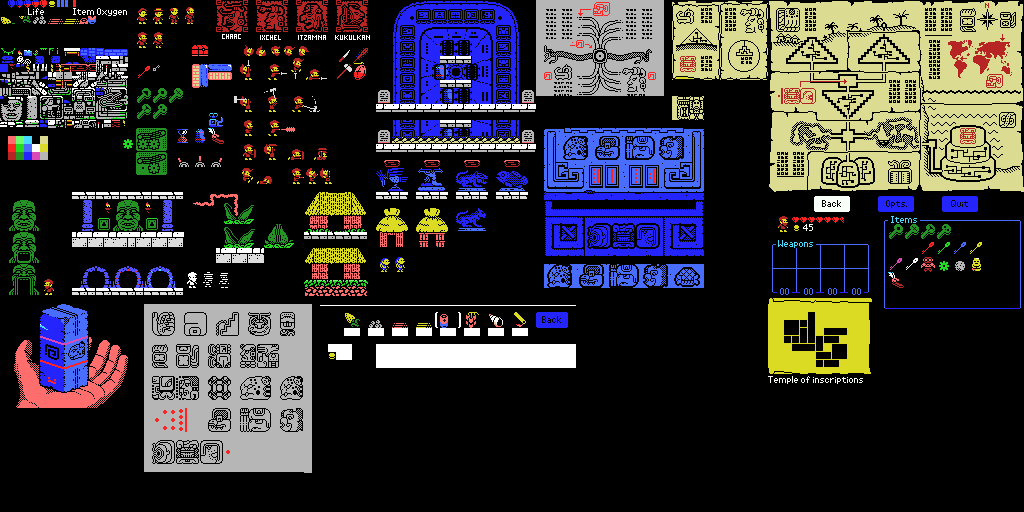
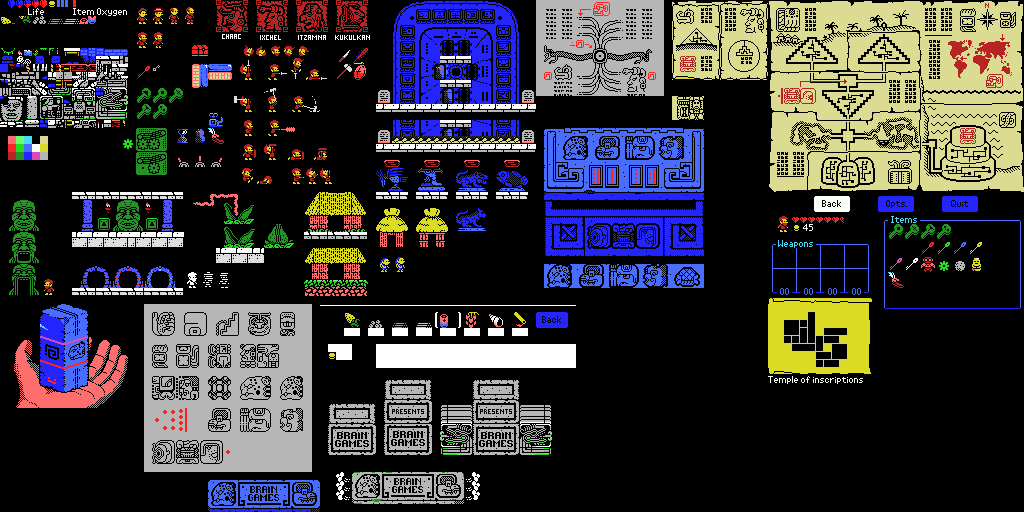
started working on the braingames splash screen

Changed region(s): [[0.1875, 0.7188, 0.5625, 1.0]]

diff --git a/java/src/xspelunker2/GenerateTiles.java b/java/src/xspelunker2/GenerateTiles.java
@@ -35,6 +35,7 @@ public class GenerateTiles {
         extractPowerStoneTiles("data/power-stone-tiles.png", "data/power-stone-1.tmx", "src/autogenerated/power-stone");
         extractTiles("data/tablet-maya-tiles.png", "src/autogenerated/tablet-maya-tiles", 0, 12*8);
         extractTiles("data/shop-tiles.png", "src/autogenerated/shop-tiles", 0, 16*8);
+        extractTiles("data/braingames.png", "src/autogenerated/braingames", 0, 4*8);
         
         Pair<BufferedImage,int[][]> tmp = Map.extractUniqueTiles("data/puzzlebox.png", "data/puzzlebox-tiles-unique.png", 0, 21);
         extractAllTiles("data/puzzlebox-tiles-unique.png", "src/autogenerated/puzzlebox-tiles");
